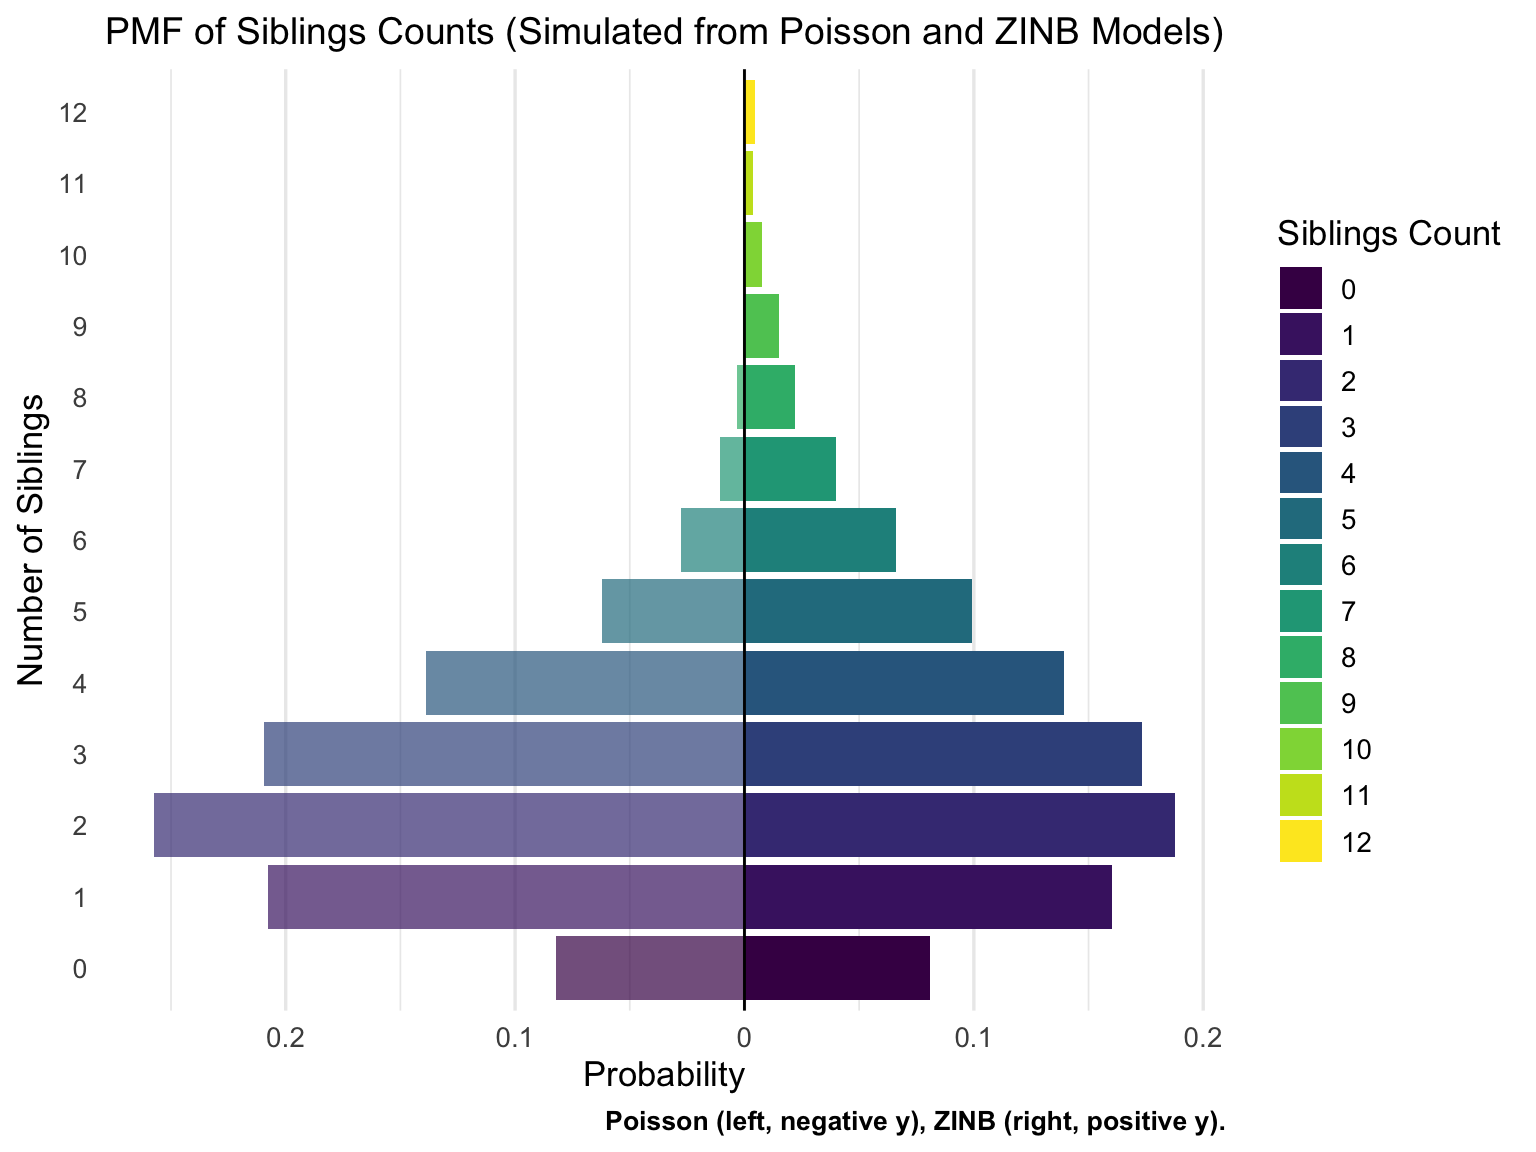
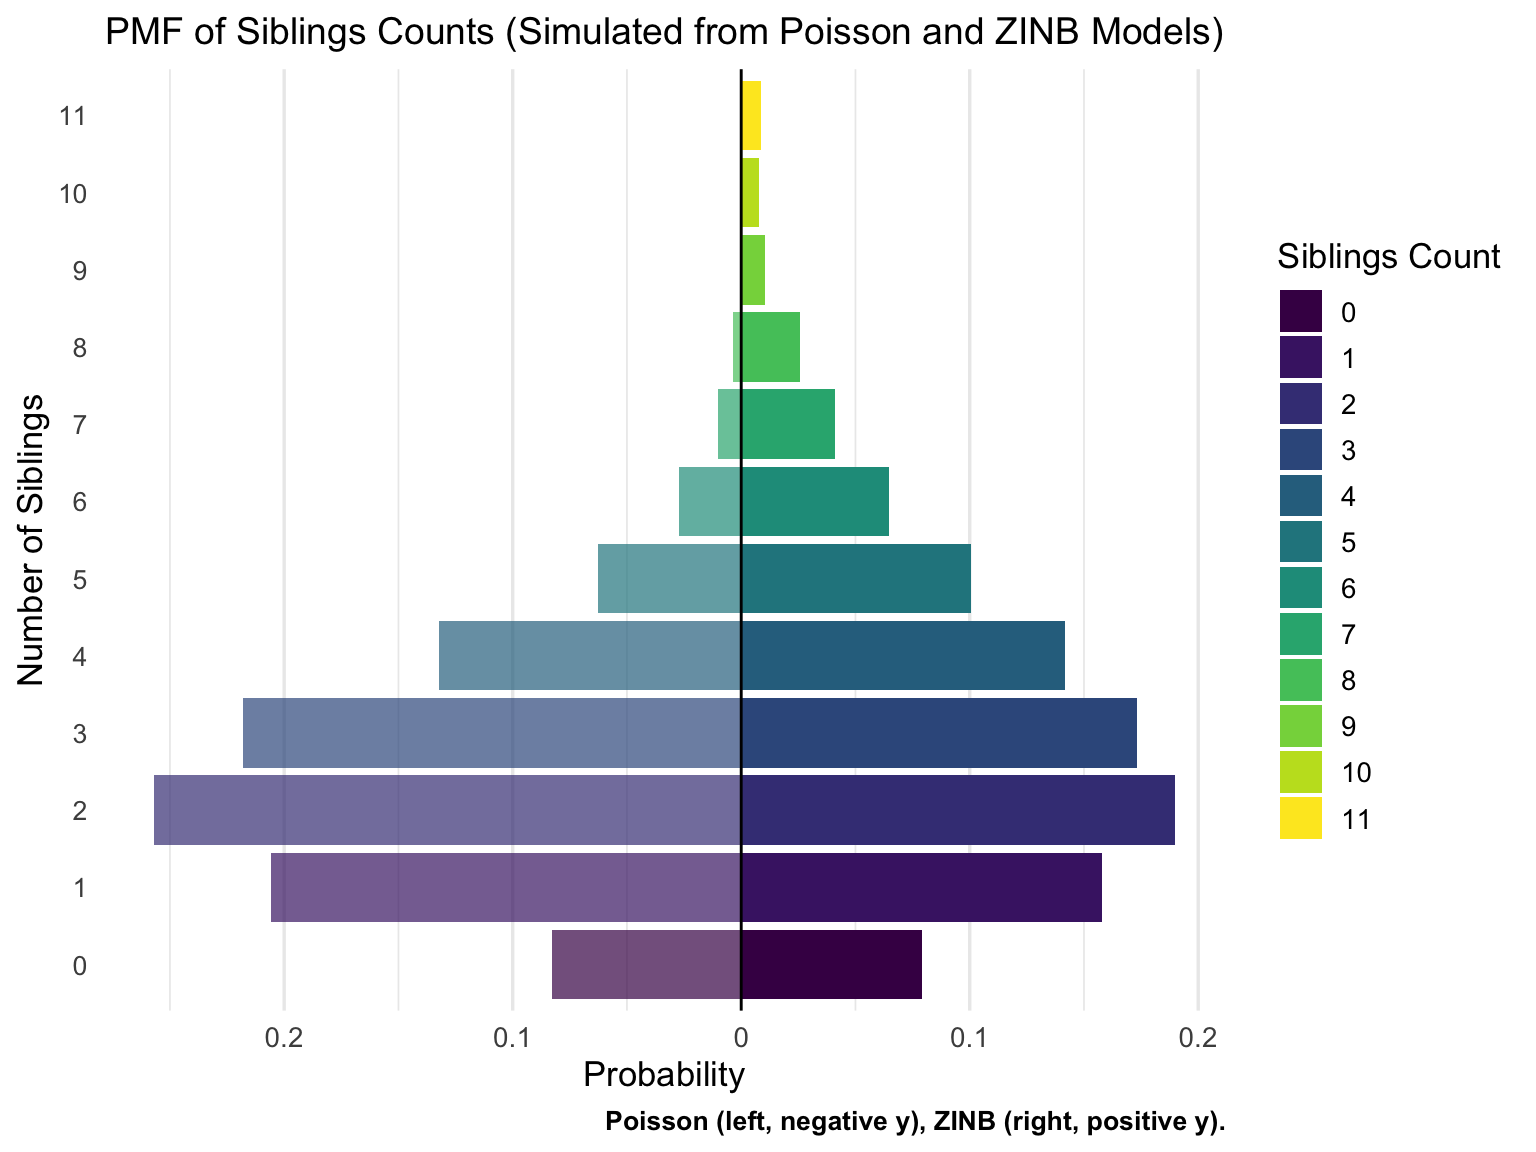
set max_kids at 12

diff --git a/docs/analysis/fert_model.html b/docs/analysis/fert_model.html
@@ -171,7 +171,7 @@ window.Quarto = {
   </li>  
         <li>
     <a class="dropdown-item" href="../analysis/fert_model.html">
- <span class="dropdown-text">Fertility modelling with US census data</span></a>
+ <span class="dropdown-text">Fertility modelling with IPUMS data</span></a>
   </li>  
         <li>
     <a class="dropdown-item" href="../analysis/fertility_parameters.html">
@@ -1154,7 +1154,7 @@ P(num_{sib}=k) &amp; \propto (1-\pi_0)(k+1)\binom{k+\theta}{k+1}(1-p)^{k+1} p^{\
 <div class="cell">
 <details class="code-fold">
 <summary>Code</summary>
-<div class="code-copy-outer-scaffold"><div class="sourceCode cell-code" id="cb12"><pre class="sourceCode r code-with-copy"><code class="sourceCode r"><span id="cb12-1"><a href="#cb12-1" aria-hidden="true" tabindex="-1"></a>simulate_fert_sib <span class="ot">&lt;-</span> <span class="cf">function</span>(model, mu, size, pi0, <span class="at">n_sim =</span> <span class="dv">20000</span>, <span class="at">max_kids =</span> <span class="dv">20</span>) {</span>
+<div class="code-copy-outer-scaffold"><div class="sourceCode cell-code" id="cb12"><pre class="sourceCode r code-with-copy"><code class="sourceCode r"><span id="cb12-1"><a href="#cb12-1" aria-hidden="true" tabindex="-1"></a>simulate_fert_sib <span class="ot">&lt;-</span> <span class="cf">function</span>(model, mu, size, pi0, <span class="at">n_sim =</span> <span class="dv">20000</span>, <span class="at">max_kids =</span> <span class="dv">12</span>) {</span>
 <span id="cb12-2"><a href="#cb12-2" aria-hidden="true" tabindex="-1"></a>  <span class="cf">if</span> (model <span class="sc">==</span> <span class="st">"Poisson"</span>) {</span>
 <span id="cb12-3"><a href="#cb12-3" aria-hidden="true" tabindex="-1"></a>    <span class="co"># Simulate fertility counts from Poisson distribution</span></span>
 <span id="cb12-4"><a href="#cb12-4" aria-hidden="true" tabindex="-1"></a>    fert_counts <span class="ot">&lt;-</span> <span class="fu">pmin</span>(<span class="fu">rpois</span>(n_sim, <span class="at">lambda =</span> mu), max_kids)</span>
@@ -1245,8 +1245,8 @@ P(num_{sib}=k) &amp; \propto (1-\pi_0)(k+1)\binom{k+\theta}{k+1}(1-p)^{k+1} p^{\
 <tr class="odd">
 <td style="text-align: left;">Fertility Mean = 1.5</td>
 <td style="text-align: left;">Simulated Poisson</td>
-<td style="text-align: right;">1.509</td>
-<td style="text-align: right;">1.528</td>
+<td style="text-align: right;">1.498</td>
+<td style="text-align: right;">1.491</td>
 </tr>
 <tr class="even">
 <td style="text-align: left;">Fertility Mean = 1.5</td>
@@ -1257,8 +1257,8 @@ P(num_{sib}=k) &amp; \propto (1-\pi_0)(k+1)\binom{k+\theta}{k+1}(1-p)^{k+1} p^{\
 <tr class="odd">
 <td style="text-align: left;">Fertility Mean = 2</td>
 <td style="text-align: left;">Simulated Poisson</td>
-<td style="text-align: right;">1.965</td>
-<td style="text-align: right;">1.957</td>
+<td style="text-align: right;">2.020</td>
+<td style="text-align: right;">2.053</td>
 </tr>
 <tr class="even">
 <td style="text-align: left;">Fertility Mean = 2</td>
@@ -1270,7 +1270,7 @@ P(num_{sib}=k) &amp; \propto (1-\pi_0)(k+1)\binom{k+\theta}{k+1}(1-p)^{k+1} p^{\
 <td style="text-align: left;">Fertility Mean = 2.5</td>
 <td style="text-align: left;">Simulated Poisson</td>
 <td style="text-align: right;">2.515</td>
-<td style="text-align: right;">2.512</td>
+<td style="text-align: right;">2.532</td>
 </tr>
 <tr class="even">
 <td style="text-align: left;">Fertility Mean = 2.5</td>
@@ -1281,8 +1281,8 @@ P(num_{sib}=k) &amp; \propto (1-\pi_0)(k+1)\binom{k+\theta}{k+1}(1-p)^{k+1} p^{\
 <tr class="odd">
 <td style="text-align: left;">Fertility Mean = 3</td>
 <td style="text-align: left;">Simulated Poisson</td>
-<td style="text-align: right;">3.004</td>
-<td style="text-align: right;">2.974</td>
+<td style="text-align: right;">3.012</td>
+<td style="text-align: right;">2.966</td>
 </tr>
 <tr class="even">
 <td style="text-align: left;">Fertility Mean = 3</td>
@@ -1293,8 +1293,8 @@ P(num_{sib}=k) &amp; \propto (1-\pi_0)(k+1)\binom{k+\theta}{k+1}(1-p)^{k+1} p^{\
 <tr class="odd">
 <td style="text-align: left;">Fertility Mean = 3.5</td>
 <td style="text-align: left;">Simulated Poisson</td>
-<td style="text-align: right;">3.474</td>
-<td style="text-align: right;">3.497</td>
+<td style="text-align: right;">3.487</td>
+<td style="text-align: right;">3.457</td>
 </tr>
 <tr class="even">
 <td style="text-align: left;">Fertility Mean = 3.5</td>
@@ -1305,8 +1305,8 @@ P(num_{sib}=k) &amp; \propto (1-\pi_0)(k+1)\binom{k+\theta}{k+1}(1-p)^{k+1} p^{\
 <tr class="odd">
 <td style="text-align: left;">Fertility Mean = 4</td>
 <td style="text-align: left;">Simulated Poisson</td>
-<td style="text-align: right;">4.003</td>
-<td style="text-align: right;">3.971</td>
+<td style="text-align: right;">3.992</td>
+<td style="text-align: right;">4.012</td>
 </tr>
 <tr class="even">
 <td style="text-align: left;">Fertility Mean = 4</td>
@@ -1361,8 +1361,8 @@ P(num_{sib}=k) &amp; \propto (1-\pi_0)(k+1)\binom{k+\theta}{k+1}(1-p)^{k+1} p^{\
 <tr class="odd">
 <td style="text-align: left;">Fertility Mean = 1.5</td>
 <td style="text-align: left;">Simulated ZINB</td>
-<td style="text-align: right;">1.977</td>
-<td style="text-align: right;">2.859</td>
+<td style="text-align: right;">1.972</td>
+<td style="text-align: right;">2.712</td>
 </tr>
 <tr class="even">
 <td style="text-align: left;">Fertility Mean = 1.5</td>
@@ -1373,8 +1373,8 @@ P(num_{sib}=k) &amp; \propto (1-\pi_0)(k+1)\binom{k+\theta}{k+1}(1-p)^{k+1} p^{\
 <tr class="odd">
 <td style="text-align: left;">Fertility Mean = 2</td>
 <td style="text-align: left;">Simulated ZINB</td>
-<td style="text-align: right;">2.613</td>
-<td style="text-align: right;">3.802</td>
+<td style="text-align: right;">2.617</td>
+<td style="text-align: right;">3.903</td>
 </tr>
 <tr class="even">
 <td style="text-align: left;">Fertility Mean = 2</td>
@@ -1385,8 +1385,8 @@ P(num_{sib}=k) &amp; \propto (1-\pi_0)(k+1)\binom{k+\theta}{k+1}(1-p)^{k+1} p^{\
 <tr class="odd">
 <td style="text-align: left;">Fertility Mean = 2.5</td>
 <td style="text-align: left;">Simulated ZINB</td>
-<td style="text-align: right;">3.233</td>
-<td style="text-align: right;">5.265</td>
+<td style="text-align: right;">3.278</td>
+<td style="text-align: right;">5.318</td>
 </tr>
 <tr class="even">
 <td style="text-align: left;">Fertility Mean = 2.5</td>
@@ -1397,8 +1397,8 @@ P(num_{sib}=k) &amp; \propto (1-\pi_0)(k+1)\binom{k+\theta}{k+1}(1-p)^{k+1} p^{\
 <tr class="odd">
 <td style="text-align: left;">Fertility Mean = 3</td>
 <td style="text-align: left;">Simulated ZINB</td>
-<td style="text-align: right;">3.985</td>
-<td style="text-align: right;">7.372</td>
+<td style="text-align: right;">3.929</td>
+<td style="text-align: right;">6.516</td>
 </tr>
 <tr class="even">
 <td style="text-align: left;">Fertility Mean = 3</td>
@@ -1409,8 +1409,8 @@ P(num_{sib}=k) &amp; \propto (1-\pi_0)(k+1)\binom{k+\theta}{k+1}(1-p)^{k+1} p^{\
 <tr class="odd">
 <td style="text-align: left;">Fertility Mean = 3.5</td>
 <td style="text-align: left;">Simulated ZINB</td>
-<td style="text-align: right;">4.609</td>
-<td style="text-align: right;">8.743</td>
+<td style="text-align: right;">4.445</td>
+<td style="text-align: right;">7.448</td>
 </tr>
 <tr class="even">
 <td style="text-align: left;">Fertility Mean = 3.5</td>
@@ -1421,8 +1421,8 @@ P(num_{sib}=k) &amp; \propto (1-\pi_0)(k+1)\binom{k+\theta}{k+1}(1-p)^{k+1} p^{\
 <tr class="odd">
 <td style="text-align: left;">Fertility Mean = 4</td>
 <td style="text-align: left;">Simulated ZINB</td>
-<td style="text-align: right;">5.241</td>
-<td style="text-align: right;">10.480</td>
+<td style="text-align: right;">5.065</td>
+<td style="text-align: right;">8.353</td>
 </tr>
 <tr class="even">
 <td style="text-align: left;">Fertility Mean = 4</td>
@@ -1527,32 +1527,31 @@ P(num_{sib}=k) &amp; \propto (1-\pi_0)(k+1)\binom{k+\theta}{k+1}(1-p)^{k+1} p^{\
 <div class="code-copy-outer-scaffold"><div class="sourceCode cell-code" id="cb19"><pre class="sourceCode r code-with-copy"><code class="sourceCode r"><span id="cb19-1"><a href="#cb19-1" aria-hidden="true" tabindex="-1"></a><span class="fu">sum</span>(pmf_data<span class="sc">$</span>n_counts[pmf_data<span class="sc">$</span>Model <span class="sc">==</span> <span class="st">"Poisson"</span>])</span></code></pre></div><button title="Copy to Clipboard" class="code-copy-button"><i class="bi"></i></button></div>
 </details>
 <div class="cell-output cell-output-stdout">
-<pre><code>[1] 49866</code></pre>
+<pre><code>[1] 49953</code></pre>
 </div>
 <details class="code-fold">
 <summary>Code</summary>
 <div class="code-copy-outer-scaffold"><div class="sourceCode cell-code" id="cb21"><pre class="sourceCode r code-with-copy"><code class="sourceCode r"><span id="cb21-1"><a href="#cb21-1" aria-hidden="true" tabindex="-1"></a><span class="fu">sum</span>(pmf_data<span class="sc">$</span>n_counts[pmf_data<span class="sc">$</span>Model <span class="sc">==</span> <span class="st">"ZINB"</span>])</span></code></pre></div><button title="Copy to Clipboard" class="code-copy-button"><i class="bi"></i></button></div>
 </details>
 <div class="cell-output cell-output-stdout">
-<pre><code>[1] 49779</code></pre>
+<pre><code>[1] 49898</code></pre>
 </div>
 <details class="code-fold">
 <summary>Code</summary>
 <div class="code-copy-outer-scaffold"><div class="sourceCode cell-code" id="cb23"><pre class="sourceCode r code-with-copy"><code class="sourceCode r"><span id="cb23-1"><a href="#cb23-1" aria-hidden="true" tabindex="-1"></a>pmf_data<span class="sc">$</span>n_counts[pmf_data<span class="sc">$</span>Model <span class="sc">==</span> <span class="st">"Poisson"</span>] <span class="sc">/</span> <span class="fu">sum</span>(pmf_data<span class="sc">$</span>n_counts[pmf_data<span class="sc">$</span>Model <span class="sc">==</span> <span class="st">"Poisson"</span>])</span></code></pre></div><button title="Copy to Clipboard" class="code-copy-button"><i class="bi"></i></button></div>
 </details>
 <div class="cell-output cell-output-stdout">
-<pre><code> [1] 0.0821200818 0.2078771107 0.2573095897 0.2094413027 0.1386716400
- [6] 0.0620863915 0.0276541130 0.0105883768 0.0034291902 0.0006016123
-[11] 0.0002205912</code></pre>
+<pre><code> [1] 0.0828979240 0.2056332953 0.2568614498 0.2181250375 0.1323243849
+ [6] 0.0624587112 0.0270454227 0.0102496347 0.0037835565 0.0004003764
+[11] 0.0002202070</code></pre>
 </div>
 <details class="code-fold">
 <summary>Code</summary>
 <div class="code-copy-outer-scaffold"><div class="sourceCode cell-code" id="cb25"><pre class="sourceCode r code-with-copy"><code class="sourceCode r"><span id="cb25-1"><a href="#cb25-1" aria-hidden="true" tabindex="-1"></a>pmf_data<span class="sc">$</span>n_counts[pmf_data<span class="sc">$</span>Model <span class="sc">==</span> <span class="st">"ZINB"</span>] <span class="sc">/</span> <span class="fu">sum</span>(pmf_data<span class="sc">$</span>n_counts[pmf_data<span class="sc">$</span>Model <span class="sc">==</span> <span class="st">"ZINB"</span>])</span></code></pre></div><button title="Copy to Clipboard" class="code-copy-button"><i class="bi"></i></button></div>
 </details>
 <div class="cell-output cell-output-stdout">
-<pre><code> [1] 0.080676591 0.160348741 0.187729766 0.173486812 0.139315776 0.099318990
- [7] 0.065951506 0.040016875 0.022238293 0.015066594 0.007513208 0.003857048
-[13] 0.004479801</code></pre>
+<pre><code> [1] 0.079081326 0.157721752 0.189867329 0.173073069 0.141689046 0.100404826
+ [7] 0.064671931 0.040883402 0.025612249 0.010621668 0.007715740 0.008657662</code></pre>
 </div>
 </div>
 

diff --git a/docs/about.html b/docs/about.html
@@ -134,7 +134,7 @@ window.Quarto = {
   </li>  
         <li>
     <a class="dropdown-item" href="./analysis/fert_model.html">
- <span class="dropdown-text">Fertility modelling with US census data</span></a>
+ <span class="dropdown-text">Fertility modelling with IPUMS data</span></a>
   </li>  
         <li>
     <a class="dropdown-item" href="./analysis/fertility_parameters.html">

diff --git a/docs/analysis/family_size_findability.html b/docs/analysis/family_size_findability.html
@@ -136,7 +136,7 @@ window.Quarto = {
   </li>  
         <li>
     <a class="dropdown-item" href="../analysis/fert_model.html">
- <span class="dropdown-text">Fertility modelling with US census data</span></a>
+ <span class="dropdown-text">Fertility modelling with IPUMS data</span></a>
   </li>  
         <li>
     <a class="dropdown-item" href="../analysis/fertility_parameters.html">

diff --git a/docs/analysis/fert_sibling.html b/docs/analysis/fert_sibling.html
@@ -136,7 +136,7 @@ window.Quarto = {
   </li>  
         <li>
     <a class="dropdown-item" href="../analysis/fert_model.html">
- <span class="dropdown-text">Fertility modelling with US census data</span></a>
+ <span class="dropdown-text">Fertility modelling with IPUMS data</span></a>
   </li>  
         <li>
     <a class="dropdown-item" href="../analysis/fertility_parameters.html">

diff --git a/docs/analysis/fertility_parameters.html b/docs/analysis/fertility_parameters.html
@@ -171,7 +171,7 @@ window.Quarto = {
   </li>  
         <li>
     <a class="dropdown-item" href="../analysis/fert_model.html">
- <span class="dropdown-text">Fertility modelling with US census data</span></a>
+ <span class="dropdown-text">Fertility modelling with IPUMS data</span></a>
   </li>  
         <li>
     <a class="dropdown-item" href="../analysis/fertility_parameters.html">

diff --git a/docs/analysis/preprocess.html b/docs/analysis/preprocess.html
@@ -105,7 +105,7 @@ ul.task-list li input[type="checkbox"] {
   </li>  
         <li>
     <a class="dropdown-item" href="../analysis/fert_model.html">
- <span class="dropdown-text">Fertility modelling with US census data</span></a>
+ <span class="dropdown-text">Fertility modelling with IPUMS data</span></a>
   </li>  
         <li>
     <a class="dropdown-item" href="../analysis/fertility_parameters.html">

diff --git a/docs/index.html b/docs/index.html
@@ -140,7 +140,7 @@ pre > code.sourceCode > span > a:first-child::before { text-decoration: underlin
   </li>  
         <li>
     <a class="dropdown-item" href="./analysis/fert_model.html">
- <span class="dropdown-text">Fertility modelling with US census data</span></a>
+ <span class="dropdown-text">Fertility modelling with IPUMS data</span></a>
   </li>  
         <li>
     <a class="dropdown-item" href="./analysis/fertility_parameters.html">

diff --git a/docs/license.html b/docs/license.html
@@ -105,7 +105,7 @@ ul.task-list li input[type="checkbox"] {
   </li>  
         <li>
     <a class="dropdown-item" href="./analysis/fert_model.html">
- <span class="dropdown-text">Fertility modelling with US census data</span></a>
+ <span class="dropdown-text">Fertility modelling with IPUMS data</span></a>
   </li>  
         <li>
     <a class="dropdown-item" href="./analysis/fertility_parameters.html">